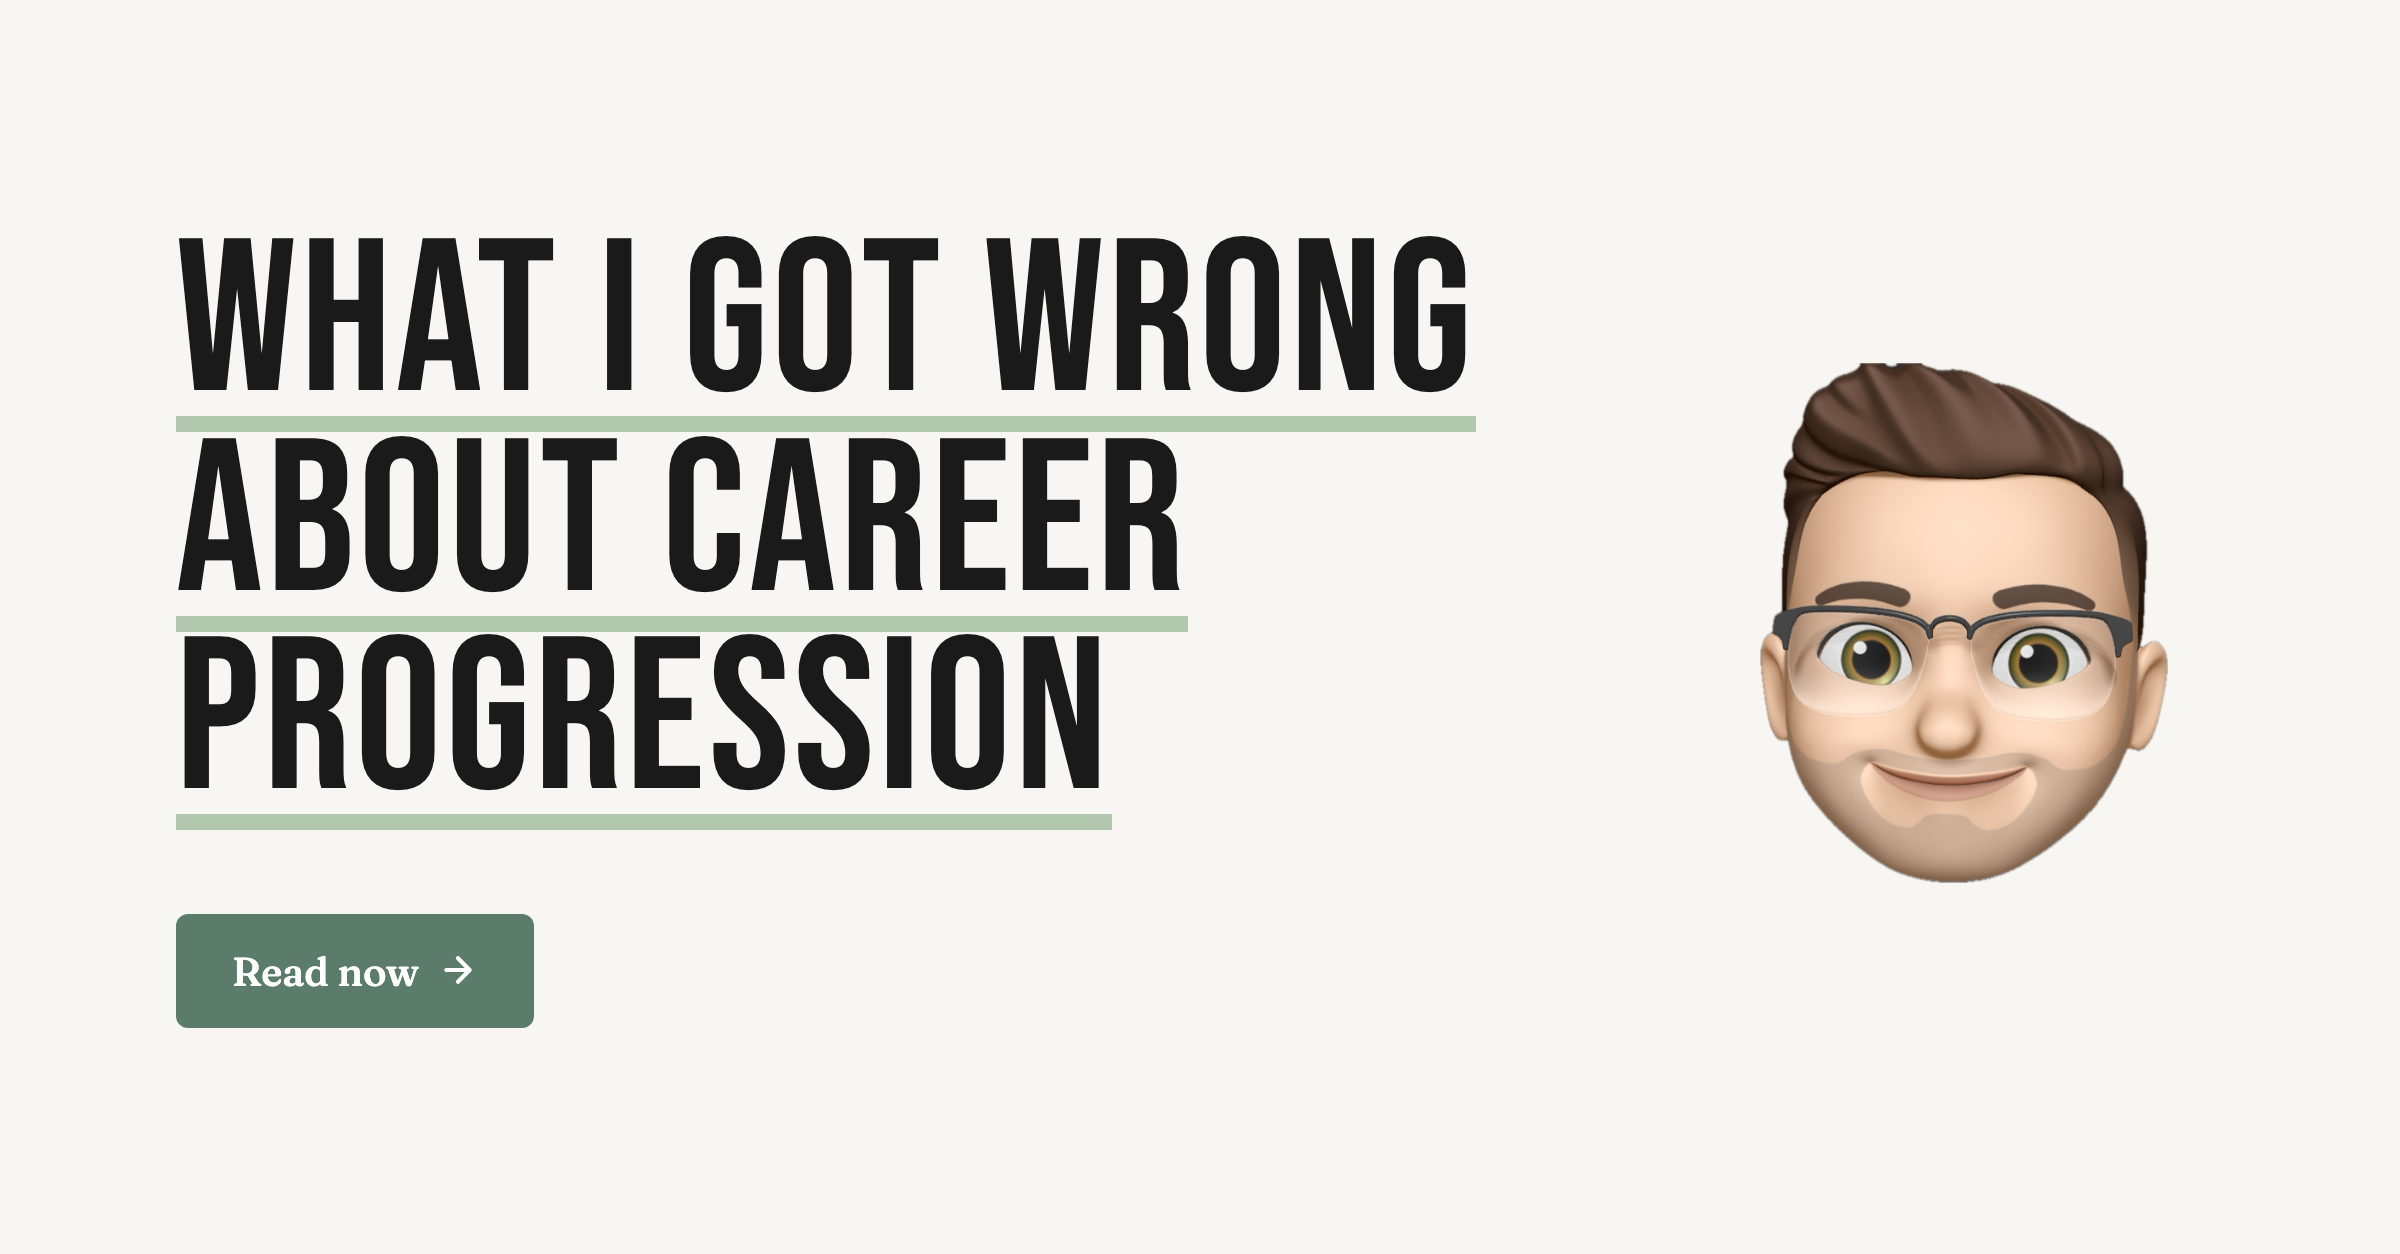
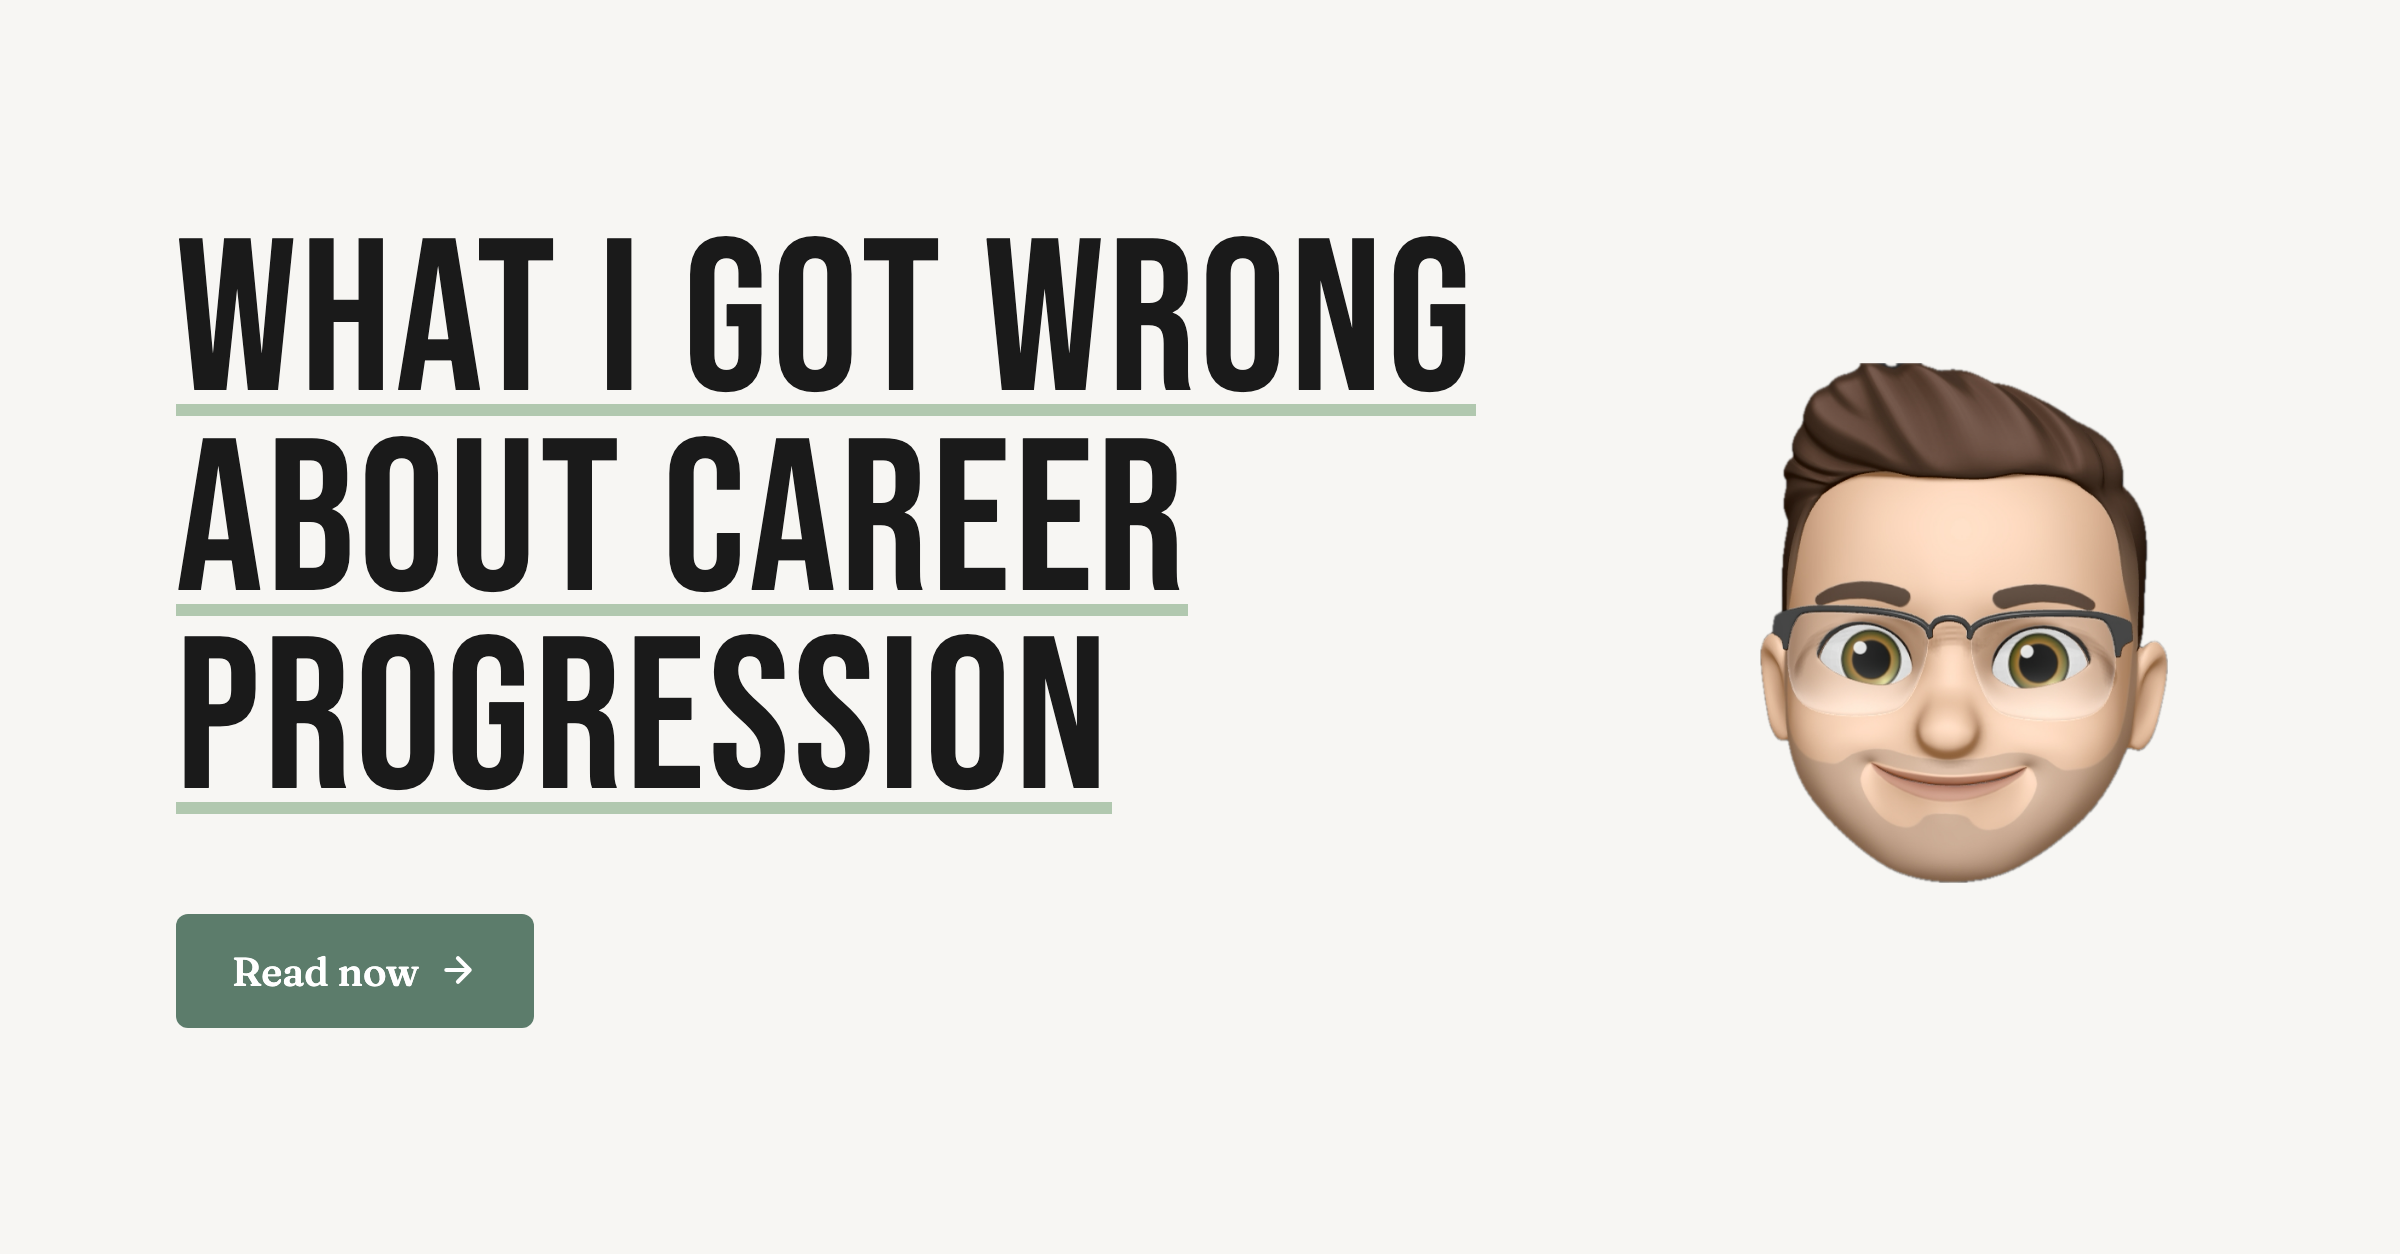
Social image: tighten headline underline to sit closer to text
- Use em-based background-position; thinner stripe; box-decoration-break

Made-with: Cursor

Changed region(s): [[0.0625, 0.4665, 0.5, 0.5287], [0.0625, 0.622, 0.4688, 0.6842], [0.0625, 0.311, 0.625, 0.3421]]

diff --git a/scripts/social-image/template.html b/scripts/social-image/template.html
@@ -34,11 +34,14 @@
     }
     .headline-line {
       display: inline;
+      box-decoration-break: clone;
+      -webkit-box-decoration-break: clone;
       background-image: linear-gradient(to right, #B1C8AF 0%, #B1C8AF 100%);
       background-repeat: no-repeat;
-      background-size: 100% 8px;
-      background-position: 0 88%;
-      padding-bottom: 4px;
+      background-size: 100% 6px;
+      /* Stripe sits just under the cap height / baseline, not at the bottom of the line box */
+      background-position: 0 calc(1em - 4px);
+      padding-bottom: 0;
     }
     .cta {
       display: inline-flex;
